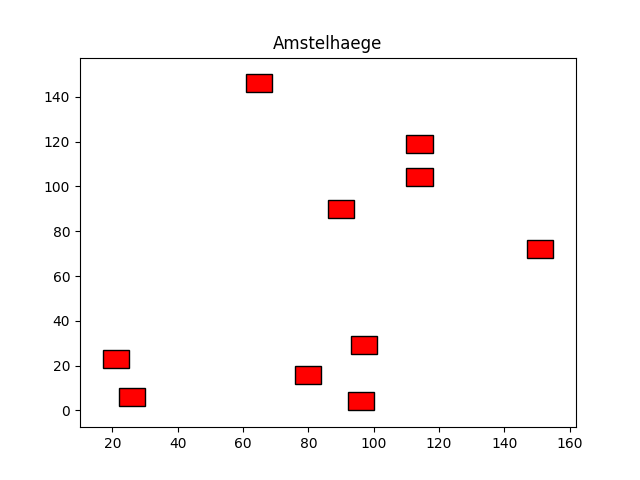
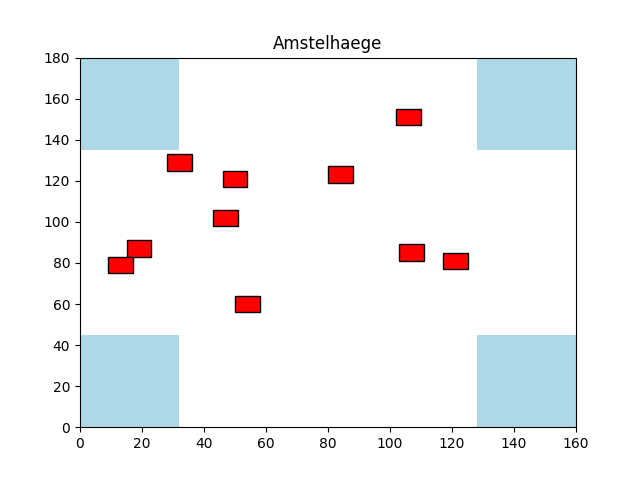
water aan map toegevoegd

diff --git a/code/classes/Amstelhaege.py b/code/classes/Amstelhaege.py
@@ -8,7 +8,7 @@ class Amstelhaege():
     class which represents the area in which houses must be build 
     """
     def __init__(self):
-        self.neighbourhood = []
+        # self.neighbourhood = []
         self.length = 160
         self.width = 180
 
@@ -17,30 +17,31 @@ class Amstelhaege():
         self.fraction_house_3 = 0.15
         
 
-    def load_water(self):
+    def load_water(choice):
         """
         Loads the coordinates of the water from the csv file
         """
+        # TODO  deze lijst wil je niet hier aanmaken
+        neighbourhood = []
         # TODO je gebruikt nu maar 1 csv file
-        csv_file = ("data/wijk_1.csv")
+        csv_file = [("data/wijk_1.csv"), ("data/wijk_2.csv"), ("data/wijk_3.csv")][choice]
     
         # retrieves the coordinates of the water
         with open(csv_file, 'r') as in_file:
             reader = csv.DictReader(in_file)
             for row in reader:
                 bottom_x, bottom_y = row['bottom_left_xy'].split(",")
-                top_x, top_y = row ['bottom_right_xy'].split(",")
+                top_x, top_y = row ['top_right_xy'].split(",")
 
                 id = row
                 x_bottom_left, y_bottom_left = int(bottom_x), int(bottom_y)
                 x_top_right, y_top_right = int(top_x), int(top_y)
-                width = (water.x_top_right - water.x_bottom_left)
-                height = (water.y_top_right - water.y_bottom_left)
-                print(height)
+                height = (x_top_right - x_bottom_left)
+                width = (y_top_right - y_bottom_left)
 
                 # makes a Water object and appends it to the neighbourhood
                 water = Water('Water', id, x_bottom_left, y_bottom_left, x_top_right, y_top_right, width, height)
-                self.neighbourhood.append(water)
+                neighbourhood.append(water)
 
         return neighbourhood
 

diff --git a/visualise.py b/visualise.py
@@ -6,19 +6,19 @@ import matplotlib.pyplot as plt
 # # from .house import House
 from random import randrange
 
-def visualise(neighbourhood, houses):
+def visualise(waters, houses):
     """
     Function which visualises the map
     """
+    #TODO geef free area een lichtere kleur met alpha = ...
 
     fig, ax = plt.subplots()
 
-    #TODO geef free area een lichtere kleur met alpha = ...
-
-    # for water in neighbourhood:
-    #     # get the coordinates and specifications of the water
-    #     x, y = water.x_bottom_left, water.y_bottom_left
-    #     ax.add_patch(Rectangle((x, y), height, width, edgecolor = 'blue', facecolor = color, fill=True))
+    for water in waters:
+        if water.name == "Water":
+            # get the coordinates and specifications of the water
+            x, y = water.x_bottom_left, water.y_bottom_left
+            ax.add_patch(Rectangle((x, y), water.height, water.width, facecolor = 'lightblue', fill=True))
 
     for house in houses:
         # get the coordinates and specifications of the house
@@ -33,14 +33,12 @@ def visualise(neighbourhood, houses):
             color = 'yellow'
 
         ax.add_patch(Rectangle((x, y), height, width, edgecolor = 'black', facecolor = color, fill=True))
-    # plt.figure(figsize=(160,180))
+    
     plt.plot(x,y)
-    # plt.xlim(180)
-    # plt.ylim(160)
-    # plt.legend()
+    plt.xlim(left = 0, right=160)
+    plt.ylim(bottom= 0, top=180)
     plt.title("Amstelhaege")
-    plt.savefig("test.png")
-    # plt.show()
+    plt.savefig("test.jpeg")
 
 
 

diff --git a/main.py b/main.py
@@ -1,13 +1,14 @@
+import sys
 from code.classes.Amstelhaege import Amstelhaege
 from code.classes.House import House
-from code.classes.Water import Water
 from visualise import visualise
-import matplotlib
-from matplotlib.patches import Rectangle
-import matplotlib.pyplot as plt
 from random import randrange
 
 if __name__ == '__main__':
+    
+     # 0 for wijk_1, 1 for wijk_2, 2 for wijk_3
+    water_map = int(sys.argv[1])
+    
     houses = []
     for x in range(10):
         x1 = randrange(150)
@@ -15,5 +16,5 @@ if __name__ == '__main__':
         house = House(x1, y1, x1+5, y1+5, 1, 1)
         houses.append(house)
     
-    neighbourhood = Amstelhaege.load_water
-    visualise(neighbourhood, houses)
+    waters = Amstelhaege.load_water(water_map)
+    visualise(waters, houses)
